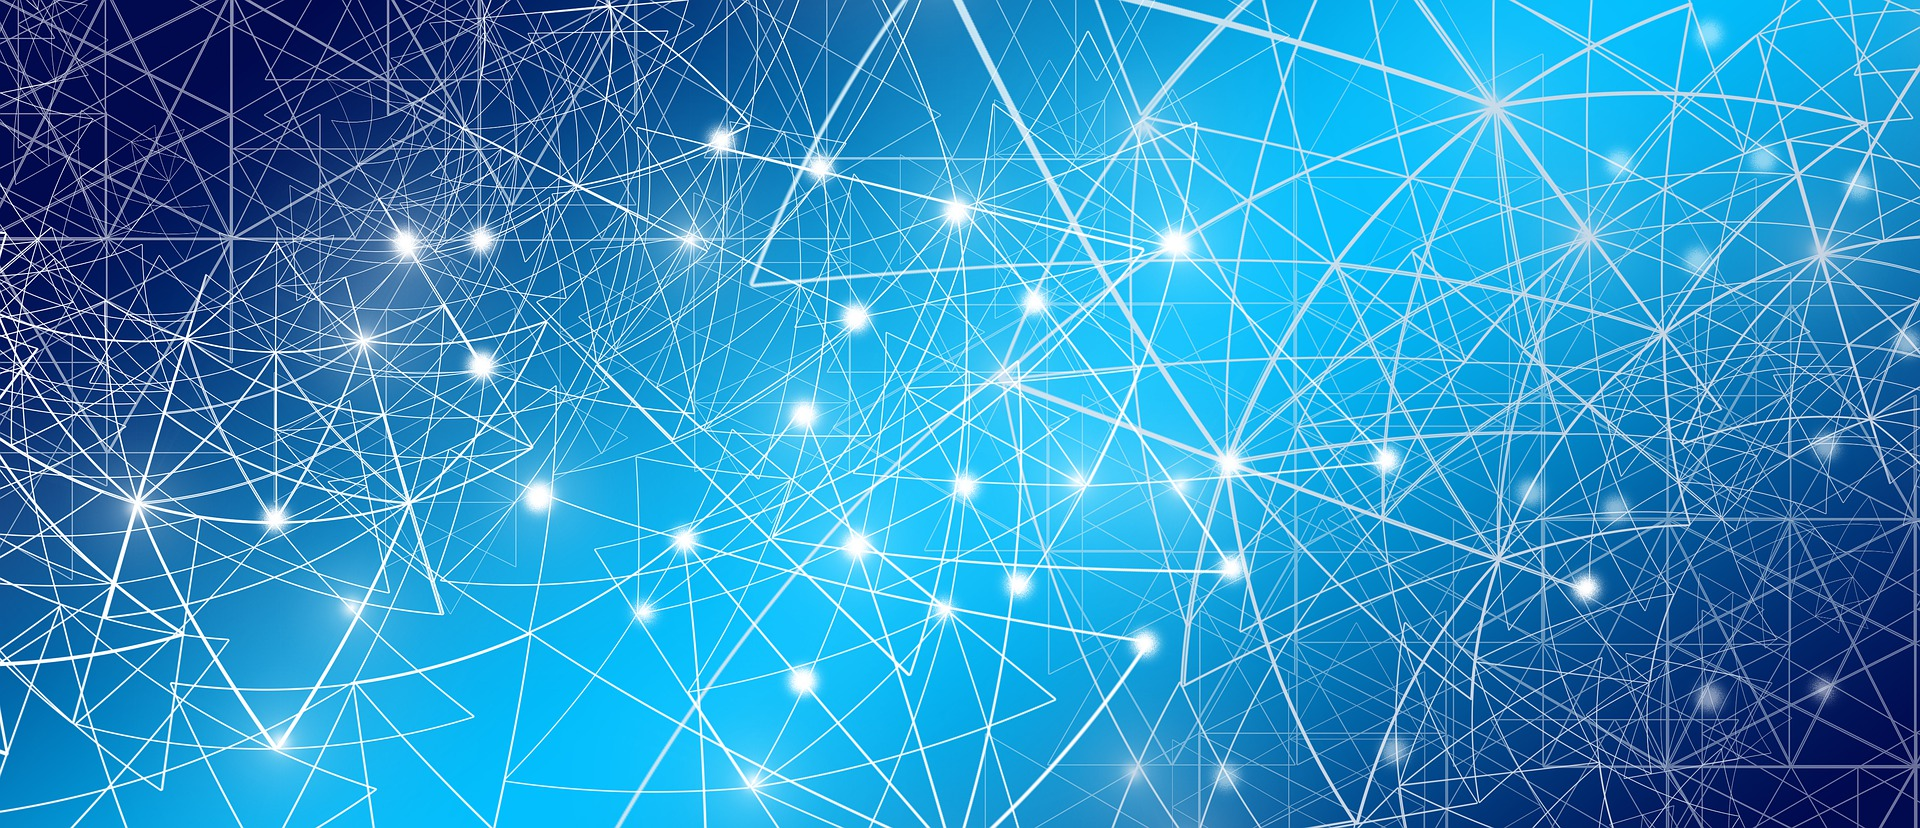
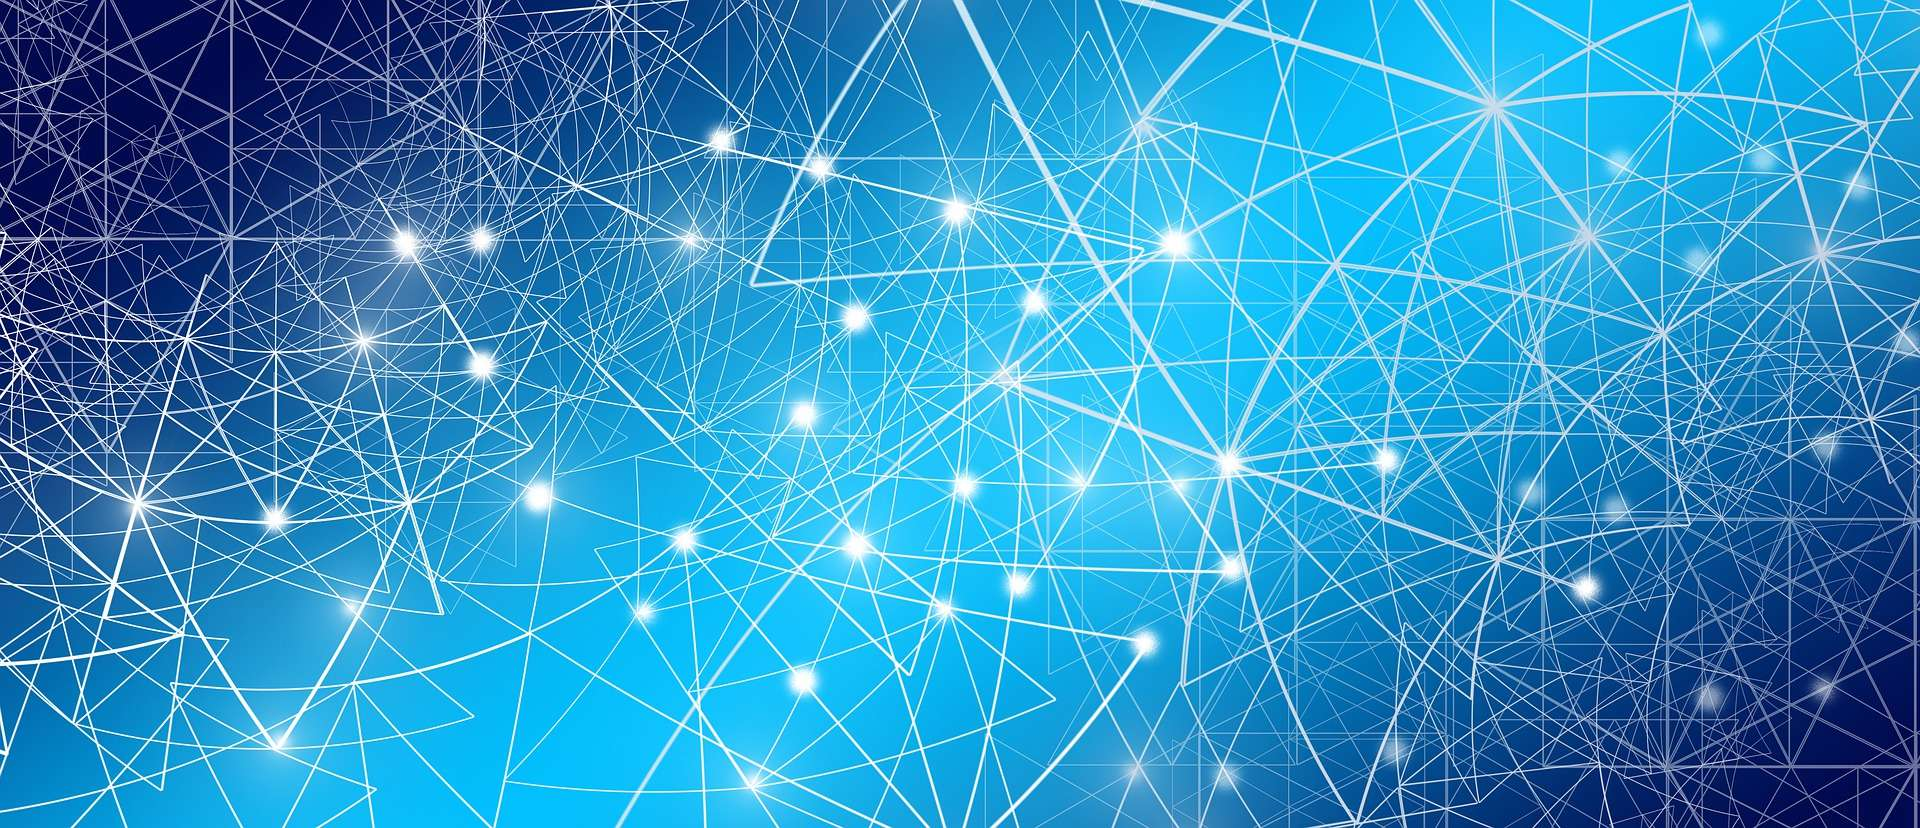
全体修正2

diff --git a/docs/index.html b/docs/index.html
@@ -6,6 +6,9 @@
   <meta name="viewport" content="width=device-width">
   <title>WhatHides | スタートアップエコシステムの拡張</title>
   <link rel="shortcut icon" type="image/x-icon" href="images/favicon.ico">
+  <link rel="preconnect" href="https://fonts.googleapis.com">
+  <link rel="preconnect" href="https://fonts.gstatic.com" crossorigin>
+  <link rel="stylesheet" href="https://fonts.googleapis.com/css2?family=Modern+Antiqua&family=Noto+Sans+JP:wght@300;400;500&display=swap">
   <link rel="stylesheet" media="all" href="css/style.css">
   <script src="js/script.js" defer></script>
 </head>
@@ -24,6 +27,7 @@
               <li><a href="#sec01">VISION</a></li>
               <li><a href="#sec02">SERVICE</a></li>
               <li><a href="#sec05">COMPANY</a></li>
+              <li><a href="#sec06">CONTACT</a></li>
             </ul>
           </div>
         </nav>
@@ -31,7 +35,14 @@
     </div>
 
     <div id="content">
-      <p id="mainImg"><img src="images/network.jpg" alt=""></p>
+      <p id="mainImg">
+        <picture>
+          <source type="image/webp"
+                  srcset="images/network-960.webp 960w, images/network-1440.webp 1440w, images/network-1920.webp 1920w"
+                  sizes="(min-width: 800px) 80vw, 100vw">
+          <img src="images/network.jpg" width="1920" height="828" alt="" fetchpriority="high">
+        </picture>
+      </p>
       <!-- VISION -->
       <section id="sec01">
         <header>
@@ -51,8 +62,25 @@
         <header>
           <h2><span>SERVICE</span></h2>
         </header>
+        <div class="innerS">
+          <p class="lead">WhatHidesは、スタートアップの成長ステージに応じて支援の形を変えます。投資家との連携を通じて、事業と資本の両面から市場価値の最適化を進めます。</p>
+          <ul class="stages">
+            <li>
+              <h3>シード / アーリー</h3>
+              <p>起業家・スタートアップへの<strong>紹介</strong>と<strong>壁打ち</strong>。初期の事業仮説を検証し、必要な人材・企業をつなぎます。</p>
+            </li>
+            <li>
+              <h3>ミドル / レイター 〜 IPO前後</h3>
+              <p>VCと<strong>連携</strong>しながら、投資先スタートアップへ<strong>面での支援</strong>を提供します。現場を巻き込んだ事業戦略策定、採用と業務委託を交えた組織体制構築、大手企業との協業促進、長期的資本政策の策定を一体で進めます。</p>
+            </li>
+            <li>
+              <h3>拡大期 / 安定期</h3>
+              <p>PEファンドによる投資局面で、スタートアップとファンドの双方に<strong>投資支援</strong>を行います。</p>
+            </li>
+          </ul>
+        </div>
         <ul id="gallery">
-          <li class="full"><img src="images/service.png" width="1080" height="695" alt=""></li>
+          <li class="full"><img src="images/service.png" width="1080" height="695" alt="成長ステージごとの支援内容を示した図。シード・アーリー期は紹介と壁打ち、ミドル・レイター期からIPO後はVCと連携した面での支援、拡大期・安定期はスタートアップとPEファンド双方への投資支援。"></li>
         </ul>
       </section>
       <!-- // SERVICE -->
@@ -78,6 +106,17 @@
         </div>
       </section>
       <!-- // COMPANY -->
+      <!-- CONTACT -->
+      <section id="sec06">
+        <header>
+          <h2><span>CONTACT</span></h2>
+        </header>
+        <div class="innerS">
+          <p>事業のご相談、協業・投資に関するお問い合わせは、以下のメールアドレスまでご連絡ください。</p>
+          <p class="mail"><a href="mailto:info@whathides.co.jp">info@whathides.co.jp</a></p>
+        </div>
+      </section>
+      <!-- // CONTACT -->
 
       <footer id="footer">
         Copyright(c) 2020-2026 WhatHides LLC. All Rights Reserved. Design by <a href="http://f-tpl.com" target="_blank">http://f-tpl.com</a><!-- ←クレジット表記を外す場合はシリアルキーが必要です http://f-tpl.com/credit/ -->

diff --git a/docs/css/style.css b/docs/css/style.css
@@ -1,5 +1,4 @@
-@import url(https://fonts.googleapis.com/earlyaccess/notosansjp.css);
-@import url(https://fonts.googleapis.com/css?family=Modern+Antiqua);
+/* Webフォントは index.html の <link> で読み込み（@import はレンダリングを直列化するため） */
 
 /* reset */
 body,div,dl,dt,dd,ul,ol,li,h1,h2,h3,h4,h5,h6,pre,form,fieldset,input,textarea,p,blockquote,th,td{margin:0;padding:0;}
@@ -126,6 +125,33 @@ section h2 span {
 }
 
 
+/* SEC02 SERVICE
+------------------------------------------------------------*/
+.lead{
+  margin-bottom: 40px;
+}
+
+.stages li{
+  padding-bottom: 30px;
+}
+
+.stages li:last-child{
+  padding-bottom: 0;
+}
+
+.stages h3{
+  margin-bottom: 5px;
+  padding-left: 12px;
+  border-left: 3px solid #000;
+  font-size: 16px;
+  font-weight: 400;
+}
+
+.stages strong{
+  font-weight: 500;
+}
+
+
 /* SEC03 BRAND
 ------------------------------------------------------------*/
 .col4 .img{
@@ -186,6 +212,14 @@ section h2 span {
   border: 0;
 }
 
+
+
+/* SEC06 CONTACT
+------------------------------------------------------------*/
+#sec06 .mail{
+  margin-top: 15px;
+  font-size: 18px;
+}
 
 
 /* RESPONSIVE 設定
